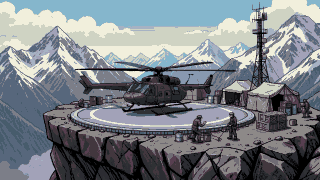
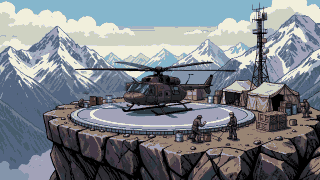
feat(intros): Duke welcomes the pilot to the second front; world 3's frames 2 and 3 fixed (doc 97)
World 2 joins the welcome films: the carrier in a North Sea storm, the three new jets on deck, the armoured train on a
jungle bridge, the Colossus in a red thunderstorm; Duke in his own flight gear, rain over the shots, the card WELCOME
TO THE SECOND FRONT, and a welcome side on the world-2 tape. In world 3's film the forward base's helicopter loses its
second tail boom (covered with the slope beside it after four inpaint runs drew it again), and the valley frame is
rendered again with the tank column on a gravel track along the valley floor (owner's pick A).

diff --git a/tests/unit/intro.test.ts b/tests/unit/intro.test.ts
@@ -13,11 +13,11 @@ import { LINES_EN, type LineKey } from '../../src/i18n/lines-en';
 const SHOTS = ['a', 'b', 'c', 'd'] as const;
 
 describe('World intros (doc 97)', () => {
-  it('welcomes the pilot to worlds 3 to 6, once each', () => {
-    expect(INTRO_WORLDS).toEqual([3, 4, 5, 6]);
+  it('welcomes the pilot to worlds 2 to 6, once each', () => {
+    expect(INTRO_WORLDS).toEqual([2, 3, 4, 5, 6]);
     const save = defaultSave();
     expect(save.intros).toEqual([]);
-    expect(([1, 2, 3, 4, 5, 6] as CampaignId[]).map((w) => introDue(save, w))).toEqual([false, false, true, true, true, true]);
+    expect(([1, 2, 3, 4, 5, 6] as CampaignId[]).map((w) => introDue(save, w))).toEqual([false, true, true, true, true, true]);
     const seen = markIntroSeen(save, 6);
     expect(introDue(seen, 6)).toBe(false);
     expect(introDue(seen, 5)).toBe(true);
@@ -27,7 +27,7 @@ describe('World intros (doc 97)', () => {
 
   it('keeps only the welcome worlds from an untrusted save, each once', () => {
     const raw = JSON.parse(JSON.stringify(defaultSave())) as Record<string, unknown>;
-    expect(parseSave({ ...raw, intros: [6, 6, 2, 'x', 9, 3, null] })?.intros).toEqual([6, 3]);
+    expect(parseSave({ ...raw, intros: [6, 6, 1, 'x', 9, 3, null, 2] })?.intros).toEqual([6, 3, 2]);
     expect(parseSave({ ...raw, intros: 'all' })?.intros).toEqual([]);
     delete raw.intros;
     expect(parseSave(raw)?.intros).toEqual([]);
@@ -74,7 +74,7 @@ describe('World intros (doc 97)', () => {
   it('has four key frames per world and Duke in each world\'s outfit', () => {
     for (const w of INTRO_WORLDS) for (const s of SHOTS) expect(existsSync(`src/assets/intros/i${w}${s}.png`), `i${w}${s}`).toBe(true);
     expect(crewLook(3)).toBe('mountain');
-    for (const w of INTRO_WORLDS) {
+    for (const w of INTRO_WORLDS.filter((x) => crewLook(x) !== 'carrier')) { // the second front: Duke in his own flight gear
       const key = portraitKey('wingman', crewLook(w));
       expect(key).toBe(`wingman-${crewLook(w)}`);
       for (const f of ['', '-talk', '-half', '-blink']) expect(existsSync(`src/assets/portraits/${key}${f}.png`), key + f).toBe(true);

diff --git a/src/game/intro.ts b/src/game/intro.ts
@@ -4,8 +4,8 @@ import type { SaveData } from './save';
 // A new world's welcome (doc 97): Duke's short film of four key frames, each panned slowly with his line in the speech
 // box, then the WELCOME TO card. It plays once when the map first shows the world, and again from the TV. Pure.
 
-/** The worlds that open with a welcome: every world after the first two. */
-export const INTRO_WORLDS: readonly CampaignId[] = Object.freeze([3, 4, 5, 6] as const);
+/** The worlds that open with a welcome: every world after the first (the second front since 2026-11-13). */
+export const INTRO_WORLDS: readonly CampaignId[] = Object.freeze([2, 3, 4, 5, 6] as const);
 
 export const INTRO = Object.freeze({
   /** Seconds per shot, the cross-fade between shots, when Duke's line comes up in a shot, the card's start, the end. */
@@ -69,6 +69,7 @@ type Pan = readonly [number, number, number, number];
 export const WINDOW = Object.freeze({ w: 256, h: 144, scale: 5 });
 
 const PANS: Readonly<Record<number, readonly Pan[]>> = {
+  2: [[56, 4, 10, 30], [0, 24, 64, 20], [0, 10, 60, 20], [32, 36, 32, 4]],
   3: [[0, 30, 56, 14], [60, 8, 10, 20], [32, 0, 32, 36], [0, 18, 64, 18]],
   4: [[20, 0, 40, 36], [0, 20, 64, 12], [64, 6, 14, 28], [32, 0, 32, 36]],
   5: [[8, 8, 56, 28], [64, 18, 0, 18], [0, 36, 60, 4], [10, 30, 54, 6]],

diff --git a/src/render/intro.ts b/src/render/intro.ts
@@ -3,7 +3,7 @@ import { WINDOW } from '../game/intro';
 
 // Duke's welcome film (doc 97): the generated key frames (320 × 180 art) drawn at 5 logical px per art px, so the screen
 // shows a 256 × 144 window that pans over the plate in whole logical px, and each world's overlay on the same coarse
-// grid — snow in the mountains, bubbles under the sea, specks of starlight in space, fireflies and spores in the jungle.
+// grid — rain at the second front, snow in the mountains, bubbles under the sea, specks of starlight in space, fireflies and spores in the jungle.
 
 type Ctx = CanvasRenderingContext2D;
 
@@ -63,6 +63,7 @@ const snap = (v: number): number => Math.round(v / PX) * PX;
 interface Field { n: number; colour: (i: number, t: number) => string; size: number; vx: number; vy: number; sway: number }
 
 const FIELDS: Readonly<Record<number, Field>> = {
+  2: { n: 60, colour: () => 'rgba(200,215,230,0.55)', size: 1, vx: -40, vy: 260, sway: 0 },
   3: { n: 70, colour: () => 'rgba(240,246,255,0.85)', size: 1, vx: -14, vy: 46, sway: 10 },
   4: { n: 40, colour: () => 'rgba(190,240,255,0.55)', size: 1, vx: 0, vy: -38, sway: 6 },
   5: { n: 46, colour: (i, t) => `rgba(220,235,255,${(0.25 + 0.6 * Math.max(0, Math.sin(t * 1.7 + i))).toFixed(2)})`, size: 1, vx: -6, vy: 0, sway: 2 },

diff --git a/src/i18n/lines-intro-de.ts b/src/i18n/lines-intro-de.ts
@@ -2,6 +2,10 @@ import type { INTRO_LINES_EN } from './lines-intro-en';
 
 // Dukes Willkommen in jeder neuen Welt (doc 97). Same {placeholders} as English.
 export const INTRO_LINES_DE: Readonly<Record<keyof typeof INTRO_LINES_EN, readonly string[]>> = {
+  'duke.intro2a': ['Willkommen an der zweiten Front, {callsign}! Hier Duke. Derselbe Träger, kälteres Wasser und ein fieserer Gegner.'],
+  'duke.intro2b': ['Dafür kriegen wir neue Vögel: die A-10, die F-35 und den Tornado. Jeder hat seinen eigenen Trick. Lern sie kennen.'],
+  'duke.intro2c': ['Bohrinseln in der Nordsee, das Dach der Welt, eine grüne Dschungelhölle und die Wüste bei Nacht. Überall wartet ein Monster auf uns.'],
+  'duke.intro2d': ['Und irgendwo im Sturm lauert ihre fliegende Festung, der Colossus. Holen wir ihn runter. Fahrwerk rein!'],
   'duke.intro3a': ['Willkommen im Tiefflug, {callsign}! Hier Duke. Oben im Norden fliegen wir unter ihrem Radar durch, und das heißt: Hubschrauber.'],
   'duke.intro3b': ['Fjorde, Gebirgspässe, ein Flussdelta, rote Tafelberge und eine Insel unter Asche. Überall steckt eine vorgeschobene Basis.'],
   'duke.intro3c': ['In jedem Tal haben sie Hind-Kampfhubschrauber, Schilkas und SAM-Stellungen versteckt. Bleib dicht am Boden, dann sehen sie dich nicht kommen.'],

diff --git a/src/i18n/lines-intro-en.ts b/src/i18n/lines-intro-en.ts
@@ -1,6 +1,10 @@
 // Duke's welcome to each new world (doc 97): one line per shot of the film, a to d — the welcome, the world, the enemies,
 // the send-off. {callsign} in the first; German in lines-intro-de.ts.
 export const INTRO_LINES_EN = {
+  'duke.intro2a': ["Welcome to the second front, {callsign}! Duke here. Same carrier, colder water, and a meaner enemy."],
+  'duke.intro2b': ['We get new birds for this one: the A-10, the F-35 and the Tornado. Each has a trick of its own. Learn them.'],
+  'duke.intro2c': ['North Sea rigs, the roof of the world, a green hell of a jungle and the desert at night. They guard every one with a monster.'],
+  'duke.intro2d': ["And somewhere in the storm waits their flying fortress, the Colossus. Let's go bring it down. Wheels up!"],
   'duke.intro3a': ["Welcome to low level, {callsign}! Duke here. Up north we fly under their radar, and that means helicopters."],
   'duke.intro3b': ["Fjords, mountain passes, a river delta, red mesas and an island buried in ash. Every one hides a forward base."],
   'duke.intro3c': ["They've tucked Hind gunships, Shilkas and SAM sites into every valley. Hug the ground and they won't see you coming."],

diff --git a/src/scenes/intro.ts b/src/scenes/intro.ts
@@ -16,7 +16,7 @@ import { pilotContext, SpeechBox } from '../ui/speech';
 // next shot, ESC ends it. When it ends the world counts as welcomed.
 
 const WORLD_NAME: Readonly<Record<CampaignId, UiKey>> = { 1: 'map.title', 2: 'map.title2', 3: 'map.title3', 4: 'map.title4', 5: 'map.title5', 6: 'map.title6' };
-const PLACE: Readonly<Partial<Record<CampaignId, UiKey>>> = { 3: 'intro.place3', 4: 'intro.place4', 5: 'intro.place5', 6: 'intro.place6' };
+const PLACE: Readonly<Partial<Record<CampaignId, UiKey>>> = { 2: 'intro.place2', 3: 'intro.place3', 4: 'intro.place4', 5: 'intro.place5', 6: 'intro.place6' };
 
 export class IntroScene implements Scene {
   private time = 0;

diff --git a/src/game/dialogue-scripts.ts b/src/game/dialogue-scripts.ts
@@ -234,6 +234,7 @@ export const celebrationLine = (world: CampaignId): LineRef => ref('admiral', CE
 
 /** Duke's lines in a world's welcome film (doc 97), one per shot. */
 const INTRO_LINES: Readonly<Partial<Record<CampaignId, readonly LineKey[]>>> = {
+  2: ['duke.intro2a', 'duke.intro2b', 'duke.intro2c', 'duke.intro2d'],
   3: ['duke.intro3a', 'duke.intro3b', 'duke.intro3c', 'duke.intro3d'],
   4: ['duke.intro4a', 'duke.intro4b', 'duke.intro4c', 'duke.intro4d'],
   5: ['duke.intro5a', 'duke.intro5b', 'duke.intro5c', 'duke.intro5d'],

diff --git a/src/i18n/ui-de-hangar.ts b/src/i18n/ui-de-hangar.ts
@@ -42,6 +42,7 @@ export const UI_DE_HANGAR = {
   'celebration.skip': 'ENTER überspringen',
   // Dukes Willkommen in jeder neuen Welt (Doc 97).
   'intro.welcome': 'WILLKOMMEN',
+  'intro.place2': 'AN DER ZWEITEN FRONT',
   'intro.place3': 'IN DEN NORDTÄLERN',
   'intro.place4': 'IN DER MEERESGRUND-BASIS',
   'intro.place5': 'AUF STATION AURORA',

diff --git a/src/i18n/ui-en-hangar.ts b/src/i18n/ui-en-hangar.ts
@@ -42,6 +42,7 @@ export const UI_EN_HANGAR = {
   'celebration.skip': 'ENTER skip',
   // Duke's welcome to each new world (doc 97).
   'intro.welcome': 'WELCOME TO',
+  'intro.place2': 'THE SECOND FRONT',
   'intro.place3': 'THE NORTHERN VALLEYS',
   'intro.place4': 'THE SEA-FLOOR BASE',
   'intro.place5': 'STATION AURORA',

diff --git a/.mdd/docs/97-world-intros.md b/.mdd/docs/97-world-intros.md
@@ -1,6 +1,6 @@
 ---
 id: 97-world-intros
-title: World Intros - Duke Welcomes the Pilot to Each New World in a Short Pixel-Art Film, Worlds 3 to 6
+title: World Intros - Duke Welcomes the Pilot to Each New World in a Short Pixel-Art Film, Worlds 2 to 6
 edition: TopRun
 depends_on: [64-world-celebrations, 76-world-looks, 06-talking-characters, 63-hangar-tv]
 relates: [64-world-celebrations, 76-world-looks, 63-hangar-tv, 98-ceremony-looks]
@@ -27,11 +27,11 @@ models:
 test_files:
   - tests/unit/intro.test.ts
 data_flow: writes-existing
-last_synced: 2026-11-09
+last_synced: 2026-11-13
 status: complete
 phase: all
 mdd_version: 11
-tags: [intro, cut-scene, key-frames, comfyui, duke, wingman, portraits, tapes, map-3, map-4, map-5, map-6]
+tags: [intro, cut-scene, key-frames, comfyui, duke, wingman, portraits, tapes, map-2, map-3, map-4, map-5, map-6]
 path: Game/Campaign/World Intros
 integration_contracts: []
 satisfies_contracts: []
@@ -53,7 +53,7 @@ celebrations** (doc 64).
 
 ## The film
 
-Each of worlds 3–6 has four generated pixel-art key frames and Duke telling the story in the speech box, one line per
+Each of worlds 2–6 has four generated pixel-art key frames and Duke telling the story in the speech box, one line per
 shot, his portrait in that world's outfit; then a title card. About 36 s, the world's own music.
 
 | time | what |
@@ -73,7 +73,7 @@ shot, his portrait in that world's outfit; then a title card. About 36 s, the wo
 - **Controls:** ENTER / tap goes to the next shot (the card after the last), ESC ends it. The hint "ENTER next · ESC
   skip" sits top right, like the celebration's.
 - **Pure timeline** (`src/game/intro.ts`): `introBeat(t)` → the shot, the shot fading out and how far, black, the card,
-  the end; `introNext(t)` → the time ENTER jumps to; `INTRO_WORLDS` = 3, 4, 5, 6.
+  the end; `introNext(t)` → the time ENTER jumps to; `INTRO_WORLDS` = 2, 3, 4, 5, 6 (2 since 2026-11-13).
 
 ## The key frames (`src/assets/intros/`)
 
@@ -128,6 +128,44 @@ face, a worn camouflage shirt and a battered tactical vest, the rainforest behin
 - **Again from the TV** (doc 63): the tape shelf's tape of a world has two recordings, the **welcome** (once seen) and the
   **victory** (once the world is finished, doc 64). `tapeShelf` lists both; ←/→ switches the side of the picked tape,
   ENTER / tap plays it; a tape with neither stays "not recorded yet".
+
+## The second front (2026-11-13)
+
+Owner, 2026-11-13: *"The second world needs an intro too. They're great."* World 2 joins `INTRO_WORLDS` (2–6): Duke
+in his own flight gear (the carrier look, his usual portrait) welcomes the pilot to the second front; the card reads
+WELCOME TO THE SECOND FRONT / WILLKOMMEN AN DER ZWEITEN FRONT; the overlay is rain driving across the storm. Pilots
+already on map 2 see it once the next time map 2 shows; the TV's world-2 tape gets its welcome side.
+
+| a | b | c | d |
+|---|---|---|---|
+| dawn on a grey-green northern sea in a storm: the carrier ploughing through the waves, jets on deck, oil rigs with burning flare stacks on the horizon | sunrise on the flight deck: the three new jets (a straight-winged ground-attack jet with rear engines and a nose gun, a stealth fighter, a swing-wing strike jet) with deck crew | the armoured train with gun turrets crossing an iron bridge over a jungle gorge | the colossal flying fortress in a dark red thunderstorm over a black sea, escort fighters, lightning |
+
+Renders (the PC, "Top Gun pixel scene 16:9"): 2a and 2c seed 7; 2b seed 11 (seed 7 drew the ground-attack jet with a
+gun barrel reaching into its neighbour), 2d seed 11 with "the whole frame is the scene itself: no watermark, no inset
+picture …" (seed 7 signed itself with a fake logo and a portrait in a corner). Pans: 2a from the rigs down to the
+carrier, 2b along the three jets, 2c from the trees to the train, 2d up towards the fortress.
+
+Duke's lines (EN): *"Welcome to the second front, {callsign}! Duke here. Same carrier, colder water, and a meaner
+enemy."* · *"We get new birds for this one: the A-10, the F-35 and the Tornado. Each has a trick of its own. Learn
+them."* · *"North Sea rigs, the roof of the world, a green hell of a jungle and the desert at night. They guard every
+one with a monster."* · *"And somewhere in the storm waits their flying fortress, the Colossus. Let's go bring it down.
+Wheels up!"*
+
+## Fixes to world 3's frames (2026-11-13)
+
+Owner: *"In the heli video pictures 2 and 3 aren't right. Picture 2 is great, but there are too many tail parts.
+Picture 3 has odd-looking roads in the mountains."*
+
+- **3b:** the helicopter had a second tail boom sticking out to the left of its cabin. Four inpaint runs (doc 93's
+  workflow in editor mode: the left boom, the right one instead, the whole helicopter redrawn) all drew the same
+  two-tailed helicopter again — the editor keeps the reference's shapes. So the boom was covered by hand: the patch of
+  mountain slope right beside it (222 px to the left on the 1280 × 720 render) pasted over it with a soft edge; the rest
+  of the picture is untouched, and the helicopter now reads nose left, one tail right.
+- **3c:** rendered again with the tanks on "a narrow gravel track beside a small river at the bottom of the valley
+  floor … no bridges, no paved roads and no roads on the steep slopes" (the old frame had a road running into a
+  launcher tower and another on a bridge across the slope). Of seeds 7, 11 and 23 the owner chose 7: a column of tanks
+  on the gravel track in the valley floor, guns under nets on the slopes, tracers into the sky.
+- World 3's four plates were rebuilt together (`dev/finale-plates.py --intro`, one shared palette).
 
 ## Business Rules
 

diff --git a/.mdd/.startup.md b/.mdd/.startup.md
@@ -102,7 +102,7 @@ Framework: TypeScript + Vite + Canvas 2D (no game engine) | DB: none (localStora
 - 94-space-lounge-picture (complete) [hangar-base, docks, space, depth, walk-behind, backdrops, ambient, comfyui, inpainting, map-5]
 - 95-jungle-camp-picture (complete) [hangar-base, docks, jungle, depth, walk-behind, backdrops, ambient, comfyui, map-6]
 - 96-alien-jungle-enemies (complete) [jungle, enemies, creatures, alien, weapons, waves, art, map-6]
-- 97-world-intros (complete) [intro, cut-scene, key-frames, comfyui, duke, wingman, portraits, tapes, map-3, map-4, map-5, map-6]
+- 97-world-intros (complete) [intro, cut-scene, key-frames, comfyui, duke, wingman, portraits, tapes, map-2, map-3, map-4, map-5, map-6]
 - 98-ceremony-looks (complete) [ceremony, medals, uniforms, comfyui, pixel-art, map-5, map-6, space, jungle]
 - 99-heli-arsenal (complete) [helicopters, weapons, gatling, tracer, hedp, incendiary, laser, sonic, drones, door-guns, turret, hangar, map-3]
 
